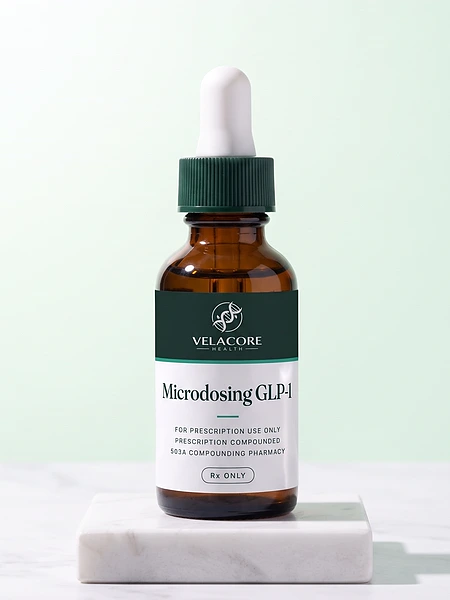
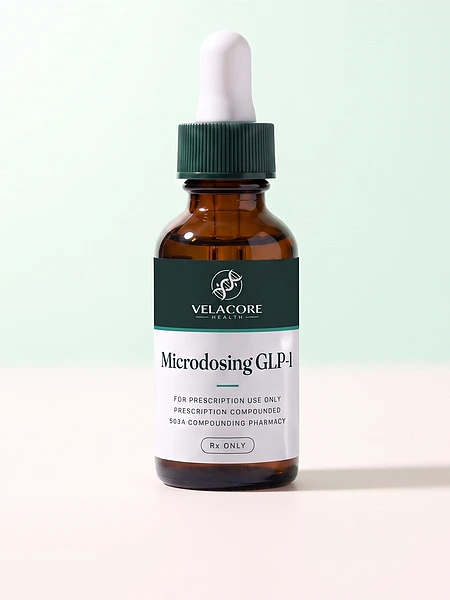
Form tiles use the studio shots, no marble

diff --git a/tools/prepare_images.py b/tools/prepare_images.py
@@ -26,6 +26,14 @@ FOLDERS = {
 FORM_TILES = {"semaglutide", "semaglutide-oral", "nad", "nad-nasal", "nad-oral", "microdosing-oral"}
 TILE_WIDTHS = (300, 450, 600, 900)
 TILE_CROP = "crop=trunc(iw*0.862/2)*2:trunc(ih*0.862/2)*2:trunc(iw*0.069):trunc(ih*0.099)"
+# Nov 20 2026: two studio shots sit differently in their frames. The Microdosing dropper stands lower, so its cut moves
+# down to line its base up with the others; the nasal spray is taller, so its cut is looser and higher to keep the tip;
+# the NAD+ dropper gets the same looser cut so its bulb has room above it.
+TILE_CROP_FOR = {
+    "microdosing-oral": "crop=trunc(iw*0.85/2)*2:trunc(ih*0.85/2)*2:trunc(iw*0.075):trunc(ih*0.15)",
+    "nad-nasal": "crop=trunc(iw*0.90/2)*2:trunc(ih*0.90/2)*2:trunc(iw*0.05):trunc(ih*0.04)",
+    "nad-oral": "crop=trunc(iw*0.90/2)*2:trunc(ih*0.90/2)*2:trunc(iw*0.05):trunc(ih*0.05)",
+}
 
 
 def make_tiles(src, out, name):
@@ -33,11 +41,35 @@ def make_tiles(src, out, name):
     for w in TILE_WIDTHS:
         amount = 0.8 if w <= 450 else 0.6
         subprocess.run(["ffmpeg", "-y", "-loglevel", "error", "-i", str(src),
-                        "-vf", f"{TILE_CROP},scale={w}:{w * 4 // 3}:flags=lanczos,unsharp=3:3:{amount}:3:3:0",
+                        "-vf", f"{TILE_CROP_FOR.get(name, TILE_CROP)},scale={w}:{w * 4 // 3}:flags=lanczos,unsharp=3:3:{amount}:3:3:0",
                         "-c:v", "libwebp", "-quality", "92", str(out / f"{name}-{w}.webp")], capture_output=True, text=True)
 
 
+def studio_or(src, name):
+    """Nov 20 2026, Dourado: the needle-free and form tiles use the studio shots, no marble, when one exists in
+    assets-in/products/studio/<name>.jpg; otherwise the photo dropped in assets-in/products."""
+    studio = ROOT / "assets-in" / "products" / "studio" / f"{name}.jpg"
+    if studio.exists():
+        return studio
+    print(f"WARNING no studio shot for {name}: using {src.name}, the marble photo. Restore assets-in/products/studio from the backup.")
+    return src
+
+
+def tiles_only():
+    """python -I tools/prepare_images.py --tiles  remakes only the form tiles, leaving the main product photos alone."""
+    for name in sorted(FORM_TILES):
+        src = studio_or(ROOT / "assets-in" / "products" / f"{name}.jpg", name)
+        if not src.exists():
+            print(f"MISSING {name}")
+            continue
+        make_tiles(src, ROOT / "public" / "images" / "products" / "tiles", name)
+        print(f"wrote tiles/{name}-*.webp from {src.relative_to(ROOT).as_posix()}")
+    return 0
+
+
 def main():
+    if "--tiles" in sys.argv[1:]:
+        return tiles_only()
     total = 0
     for folder, expected in FOLDERS.items():
         total += convert(ROOT / "assets-in" / folder, ROOT / "public" / "images" / folder, expected)
@@ -48,7 +80,7 @@ def main():
     return 0
 
 
-ONLY = {a.lower() for a in sys.argv[1:]}
+ONLY = {a.lower() for a in sys.argv[1:] if not a.startswith("--")}
 
 
 def convert(IN, OUT, EXPECTED):
@@ -61,7 +93,7 @@ def convert(IN, OUT, EXPECTED):
         name = src.stem.lower().replace(" ", "-")
         dst = OUT / f"{name}.webp"
         if OUT.name == "products" and name in FORM_TILES:
-            make_tiles(src, OUT / "tiles", name)
+            make_tiles(studio_or(src, name), OUT / "tiles", name)
         if OUT.name == "products":
             # Nov 17 2026: product photos are sharpened after a Lanczos resize, and get an 800 copy for cards on phones.
             cmd = ["ffmpeg", "-y", "-loglevel", "error", "-i", str(src),

diff --git a/docs/HANDOFF.md b/docs/HANDOFF.md
@@ -47,6 +47,8 @@ Bryan is non-technical: explain steps plainly and don't assume knowledge.
 
 ## Status as of Nov 13, 2026 (newest; read first)
 
+Nov 20 2026, form tiles on studio shots, local, vc-reviewer PASS: Dourado caught that the Tired of needles tiles still showed marble after the eighth push; Vale had wired the studio shots into the price box only and missed the tiles. New studio shots, label-checked: nad-nasal, nad-oral, microdosing-oral. tools/prepare_images.py --tiles remakes only the six form tiles, preferring assets-in/products/studio/<name>.jpg and warning when it falls back to marble; TILE_CROP_FOR gives three shots their own cut. Still on marble, waiting for Dourado's call on the whole site: the main product photo on each program page and home, and the menu label close-ups from tools/make_thumbs.py. Not pushed.
+
 Nov 20 2026, eighth push: on Dourado's "Push", 408ada7 to b86aa38 went live: the logo fix, one image note per page, tablet layout fixes, illustration alts, the menu image note and all seven studio price box photos. Verified live: the tirzepatide, nad and semaglutide-oral price box files match the local files byte for byte; the home page carries the menu note; the NAD+ page alts start Illustration; the full audit shows 1 fail, the 9 Start placeholders, and 18 pass; a live phone render of Sermorelin shows the studio photo in the price box with no script errors. The hidden Sexual Health and Women's HRT shots are not in public and were not pushed. This note itself is local, not pushed.
 
 Nov 20 2026, all seven studio price box photos done, local, vc-reviewer PASS: Microdosing GLP-1, NAD+, Glutathione, Sermorelin and Semaglutide oral join Tirzepatide and Semaglutide, every label checked enlarged with a flat-topped 5 in 503A. Sources live only in assets-in/products/studio/, gitignored; if that folder is lost, make_thumbs.py falls back to the marble photos, so it needs a backup outside the repo. NAD+ is now serif in the price box only; the menu thumbs and main NAD+ image still use the older plain-font label, Dourado's call. Hidden studio shots done the same day, label-checked, off the site: assets-in/products/studio/_hold-sexual-health.jpg, a vial in helix blue, and _hold-womens-hrt.jpg, a bottle in plum, both with only FOR PRESCRIPTION USE ONLY since OpenLoop has not said whether those items are compounded; the pages stay unbuilt until OpenLoop's written product list. Not pushed: 40ad240, bf58edb, 1aa00bd and this commit wait for Dourado's push OK.
